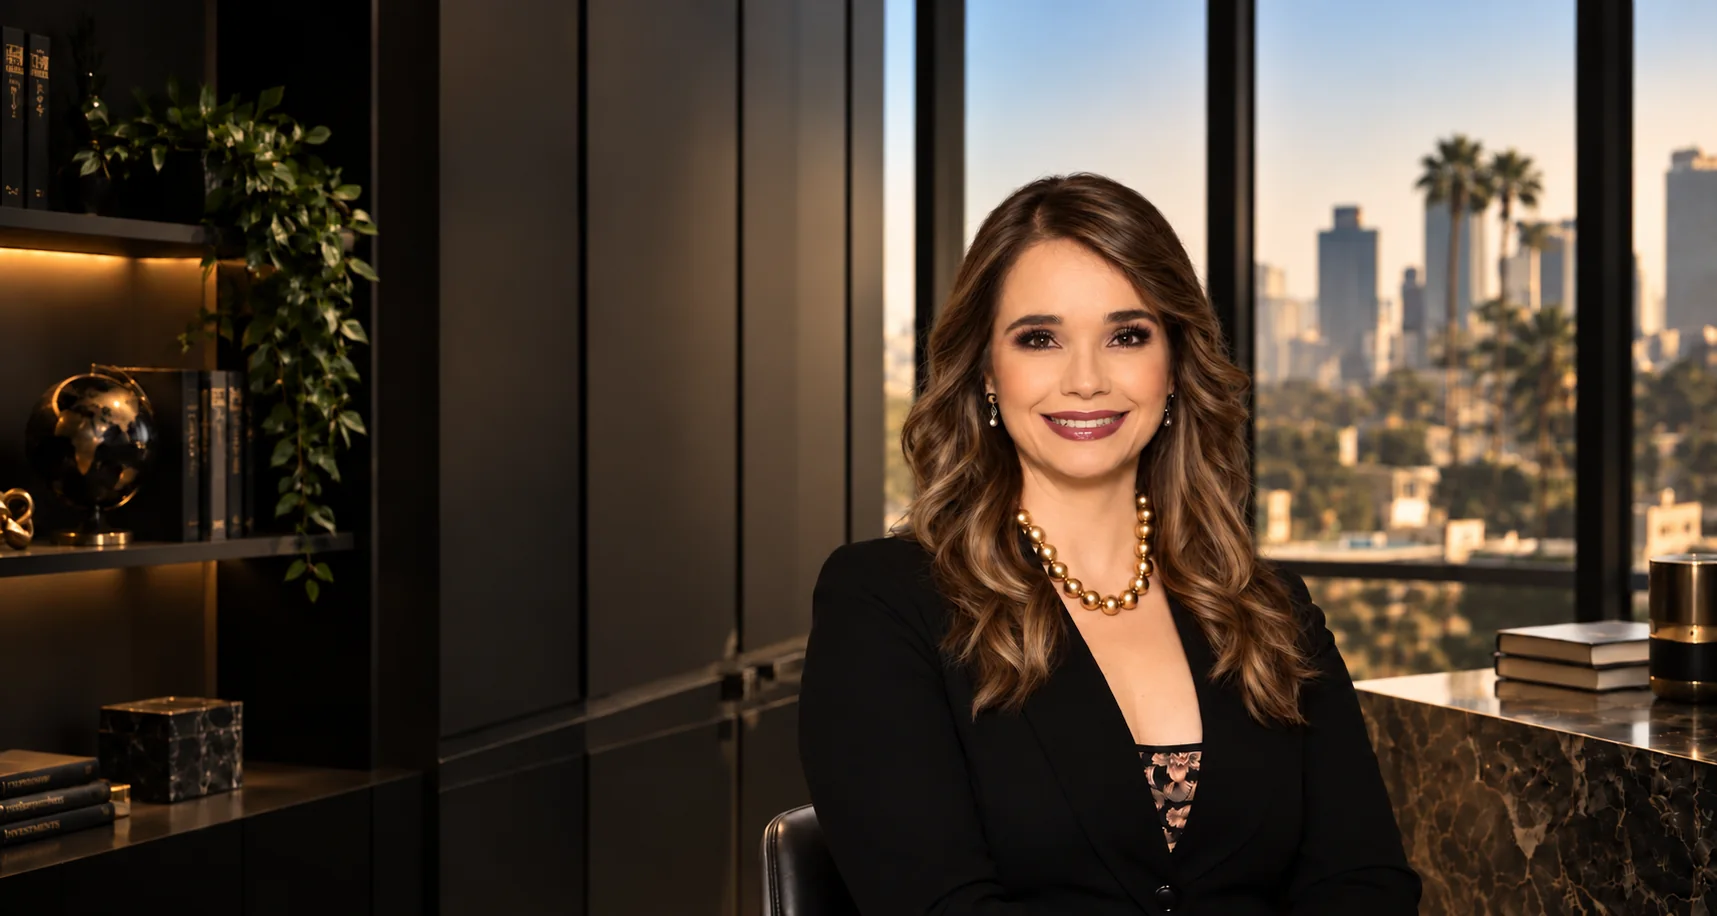
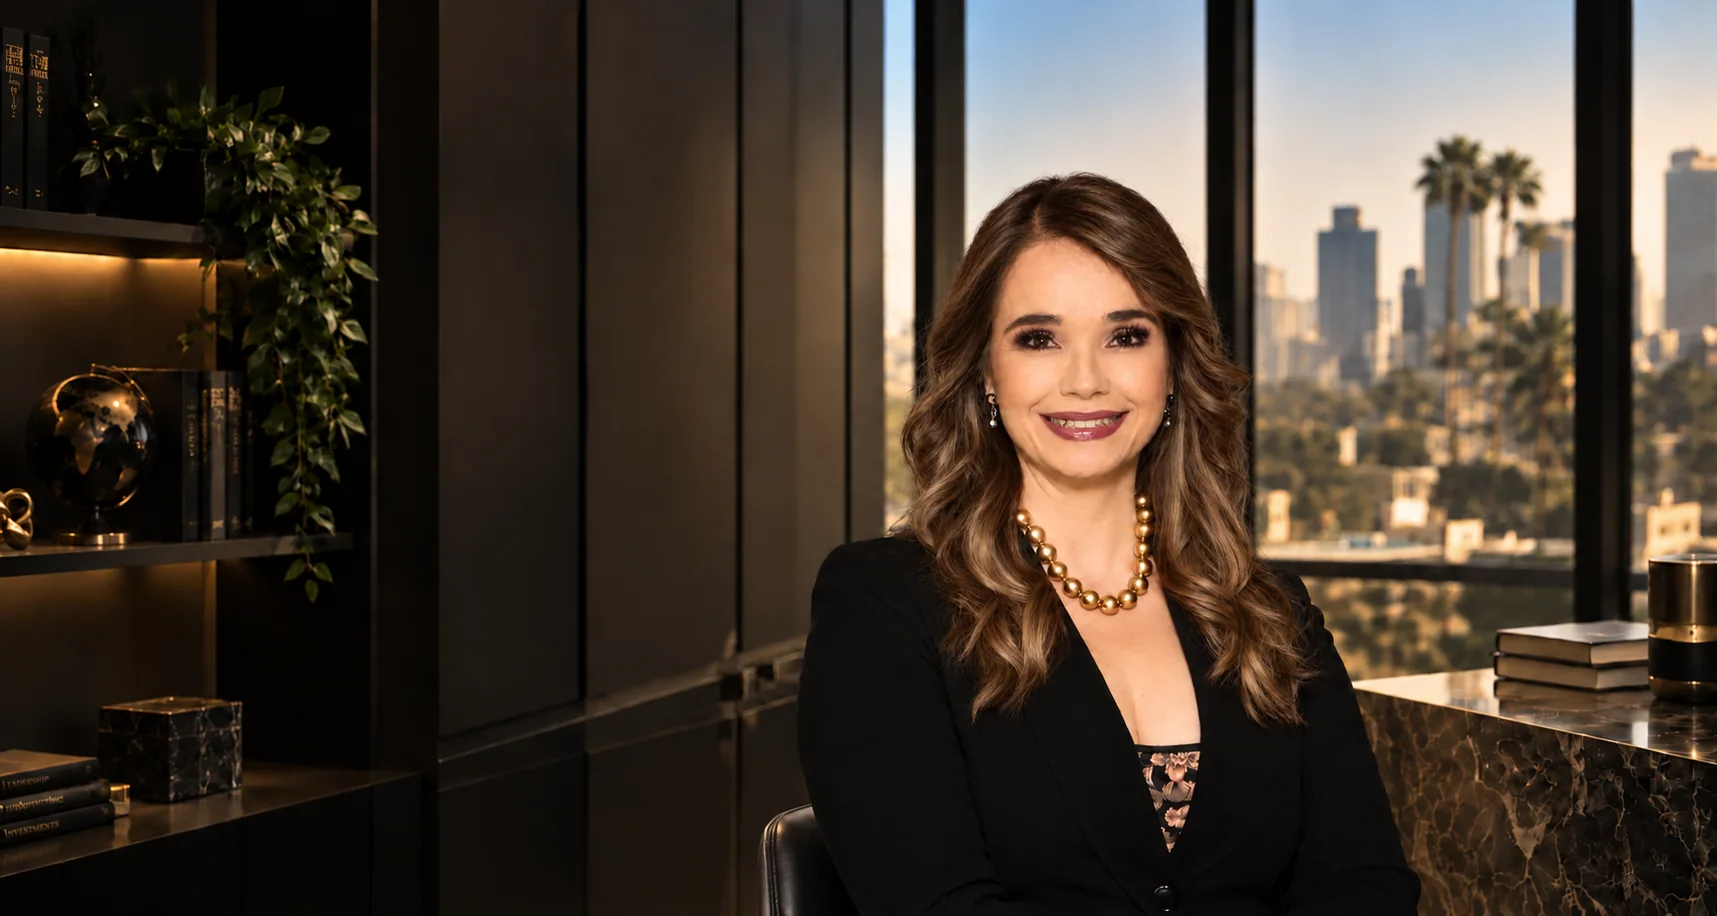
feat(sitegb): retrato del hero actualizado (fondo gb2)

diff --git a/coming-soon/sitegb/index.html b/coming-soon/sitegb/index.html
@@ -67,10 +67,10 @@
       <!-- HOME -->
       <section class="panel panel-home" id="home" aria-labelledby="home-title">
         <picture class="hero-scene" aria-hidden="true">
-          <source media="(max-width: 960px)" srcset="assets/hero-scene-mobile.webp?v=3" type="image/webp">
-          <source media="(max-width: 960px)" srcset="assets/hero-scene-mobile.jpg?v=3">
-          <source srcset="assets/hero-scene.webp?v=3" type="image/webp">
-          <img src="assets/hero-scene.jpg?v=3" alt="" width="1717" height="916">
+          <source media="(max-width: 960px)" srcset="assets/hero-scene-mobile.webp?v=4" type="image/webp">
+          <source media="(max-width: 960px)" srcset="assets/hero-scene-mobile.jpg?v=4">
+          <source srcset="assets/hero-scene.webp?v=4" type="image/webp">
+          <img src="assets/hero-scene.jpg?v=4" alt="" width="1717" height="916">
         </picture>
         <div class="hero-shade" aria-hidden="true"></div>
 
